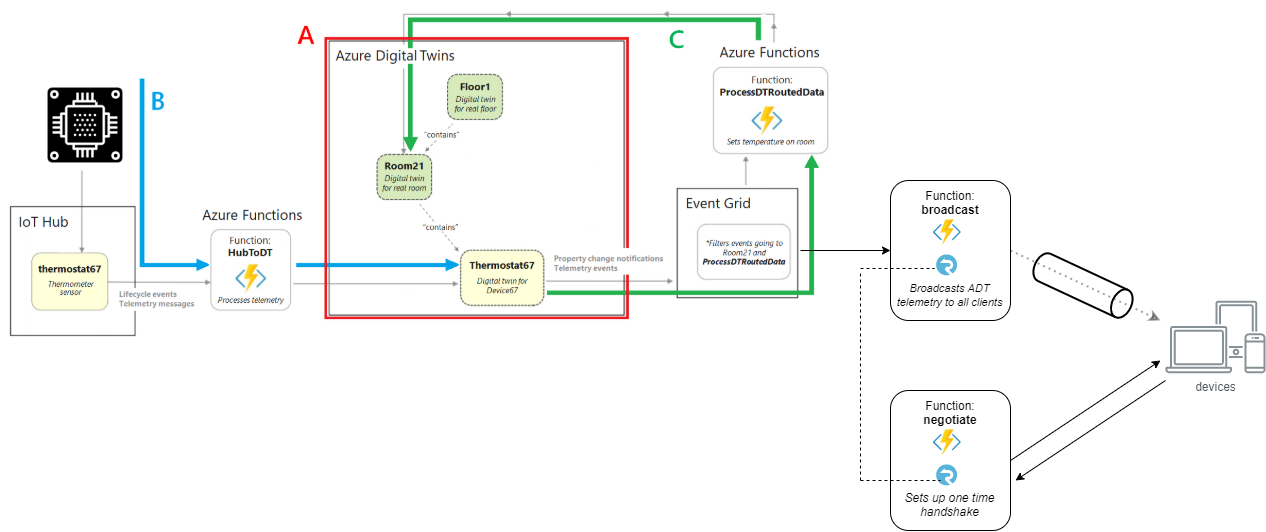
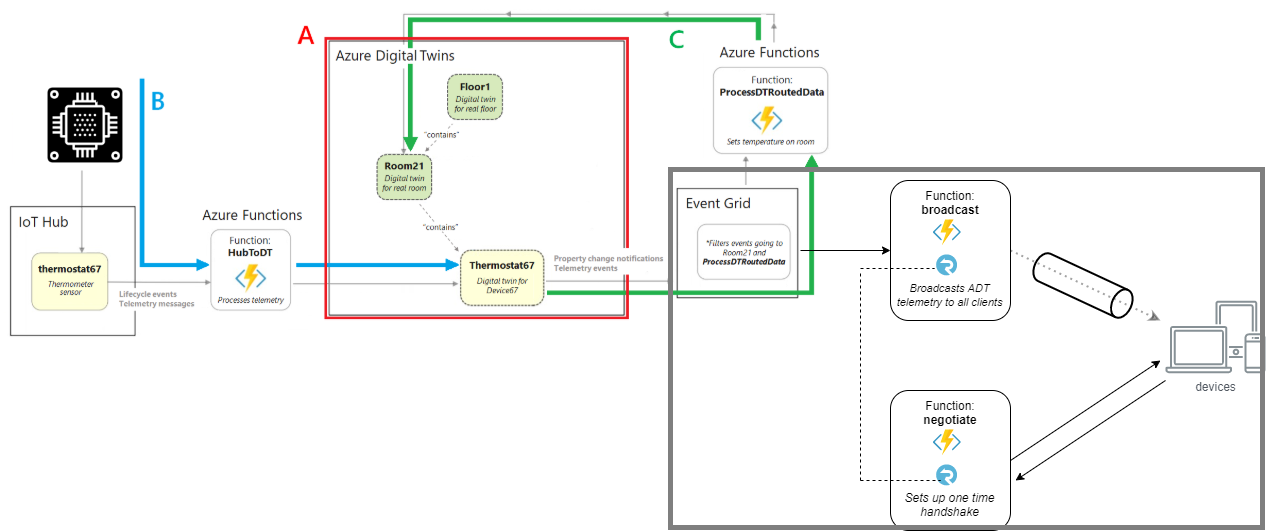
Editting documentation based on feedback

Changed region(s): [[0.5237, 0.3008, 1.0, 1.0]]

diff --git a/articles/digital-twins/how-to-integrate-azure-signalr.md b/articles/digital-twins/how-to-integrate-azure-signalr.md
@@ -29,7 +29,7 @@ The solution described in this article will allow you push digital twins telemet
 
 ## Solution architecture
 
-You will be attaching Azure SignalR Service to Azure Digital Twins through the path below.
+You will be attaching Azure SignalR Service to Azure Digital Twins through the path below as highlighted in the grey box.
 
 :::image type="content" source="media/how-to-integrate-azure-signalr/signalr-integration-topology.png" alt-text="A view of Azure services in an end-to-end scenario, highlighting Azure-SignalR" lightbox="media/how-to-integrate-azure-signalr/signalr-integration-topology.png":::
 
@@ -61,16 +61,81 @@ While the service is deploying, let's switch to working with code. Clone the [sa
 
 1. Select and copy the primary connection string.
 
-1. Back in Visual Studio, in Solution Explorer, rename *local.settings.sample.json* to *local.settings.json*.
+1. Back in Visual Studio, create a new C# sharp class called **SignalRFunctions.cs** in the SampleFunctionsApp project
 
-1. In **local.settings.json**, paste the connection string into the value of the **AzureSignalRConnectionString** setting. Save the file.
+1. Replace the contents of the class with the following code below
 
-1. Open **SignalRFunctions.cs**. There are two HTTP triggered functions in this function app:
+    ```C#
+    using System;
+    using System.Threading.Tasks;
+    using Microsoft.AspNetCore.Http;
+    using Microsoft.Azure.EventGrid.Models;
+    using Microsoft.Azure.WebJobs;
+    using Microsoft.Azure.WebJobs.Extensions.Http;
+    using Microsoft.Azure.WebJobs.Extensions.EventGrid;
+    using Microsoft.Azure.WebJobs.Extensions.SignalRService;
+    using Microsoft.Extensions.Logging;
+    using Newtonsoft.Json;
+    using Newtonsoft.Json.Linq;
+    using System.Collections.Generic;
+    
+    namespace SampleFunctionsApp
+    {
+        public static class SignalRFunctions
+        {
+            public static double temperature;
+    
+            [FunctionName("negotiate")]
+            public static SignalRConnectionInfo GetSignalRInfo(
+                [HttpTrigger(AuthorizationLevel.Anonymous, "post")] HttpRequest req,
+                [SignalRConnectionInfo(HubName = "dttelemetry")] SignalRConnectionInfo connectionInfo)
+            {
+                return connectionInfo;
+            }
+    
+            [FunctionName("broadcast")]
+            public static Task SendMessage(
+                [EventGridTrigger] EventGridEvent eventGridEvent,
+                [SignalR(HubName = "dttelemetry")] IAsyncCollector<SignalRMessage> signalRMessages,
+                ILogger log)
+            {
+                JObject eventGridData = (JObject)JsonConvert.DeserializeObject(eventGridEvent.Data.ToString());
+    
+                log.LogInformation($"Event grid message: {eventGridData}");
+    
+                var patch = (JObject)eventGridData["data"]["patch"][0];
+                if (patch["path"].ToString().Contains("/Temperature"))
+                {
+                    temperature = Math.Round(patch["value"].ToObject<double>(), 2);
+                }
+    
+                var message = new Dictionary<object, object>
+                {
+                    { "temperatureInFahrenheit", temperature},
+                };
+    
+                log.LogInformation($"Sending Dashboard data: {message}");
+    
+                return signalRMessages.AddAsync(
+                    new SignalRMessage
+                    {
+                        Target = "newMessage",
+                        Arguments = new[] { message }
+                    });
+            }
+        }
+    }
+    ```
+
+1. This contains two Azure Functions:
 
     - **negotiate** - A HTTP trigger function. It uses the *SignalRConnectionInfo* input binding to generate and return valid connection information.
     - **broadcast** - An event grid trigger function. It receives an ADT telemetry data through the event grid and uses the *SignalR* output binding to broadcast the message to all connected client applications.
 
-
+1. In the .NET CLI run the following to install the SignalRService nuget package
+    ```bash
+    dotnet add package Microsoft.Azure.WebJobs.Extensions.SignalRService --version 1.2.0
+    ```
 
 1. Publish your functions to Azure using the steps similar to that of the [connect an end to end solution](https://docs.microsoft.com/en-us/azure/digital-twins/tutorial-end-to-end#publish-the-app)
 
@@ -103,7 +168,9 @@ Back on the *Create Event Subscription* page, hit **Create**.
 ## Configure and run the web app
 1. Before configuring the web app, make sure the Device Simulator program is running
 
-1. Go to the folder where you cloned the repository, open the WebApp folder using Visual Studio Code or any editor of your choice
+1. Download the Web App sample from [here](<to-be-provided>)
+
+1. Open the WebApp folder using Visual Studio Code or any editor of your choice
 
 1. In the src/App.js, replace the URL in the **HubConnectionBuilder** with the HTTP endpoint of the **negotiate** function
 
